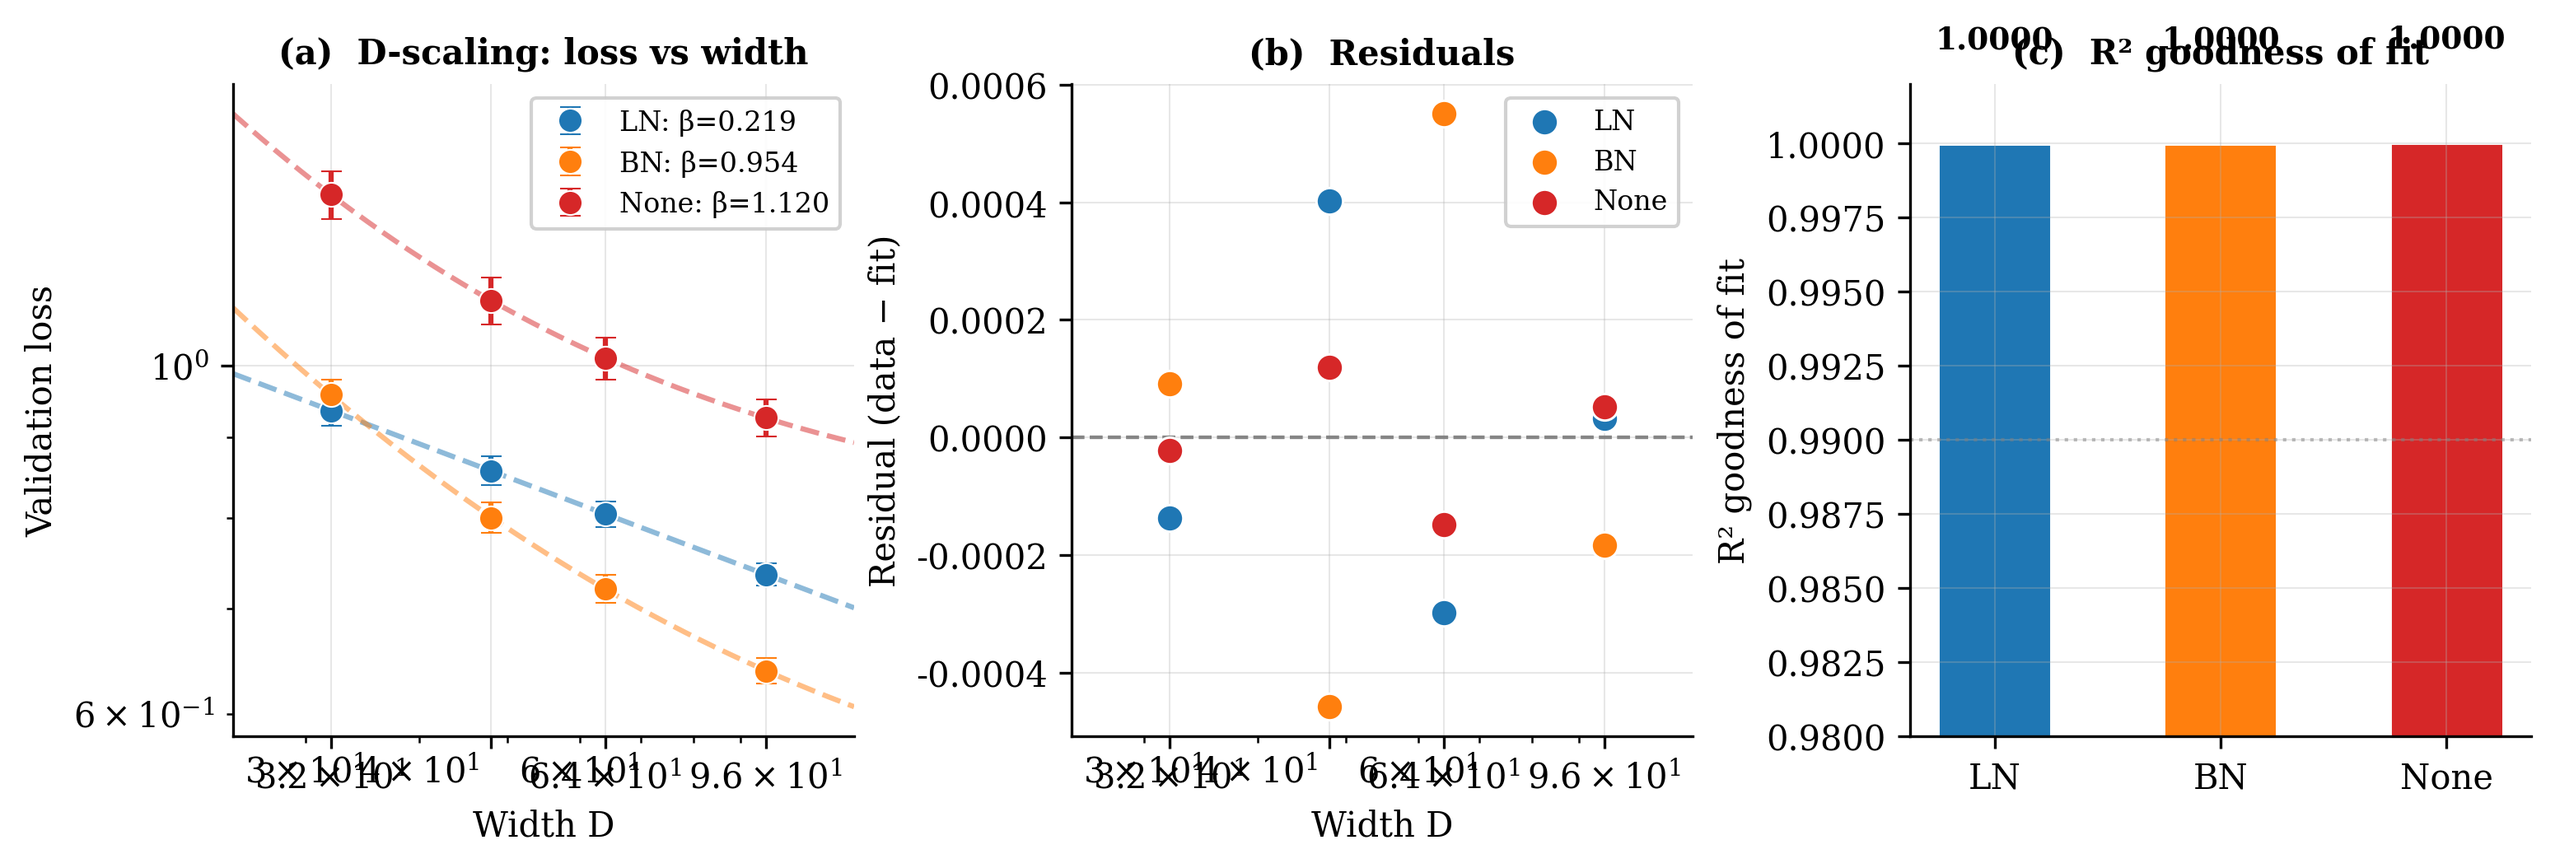
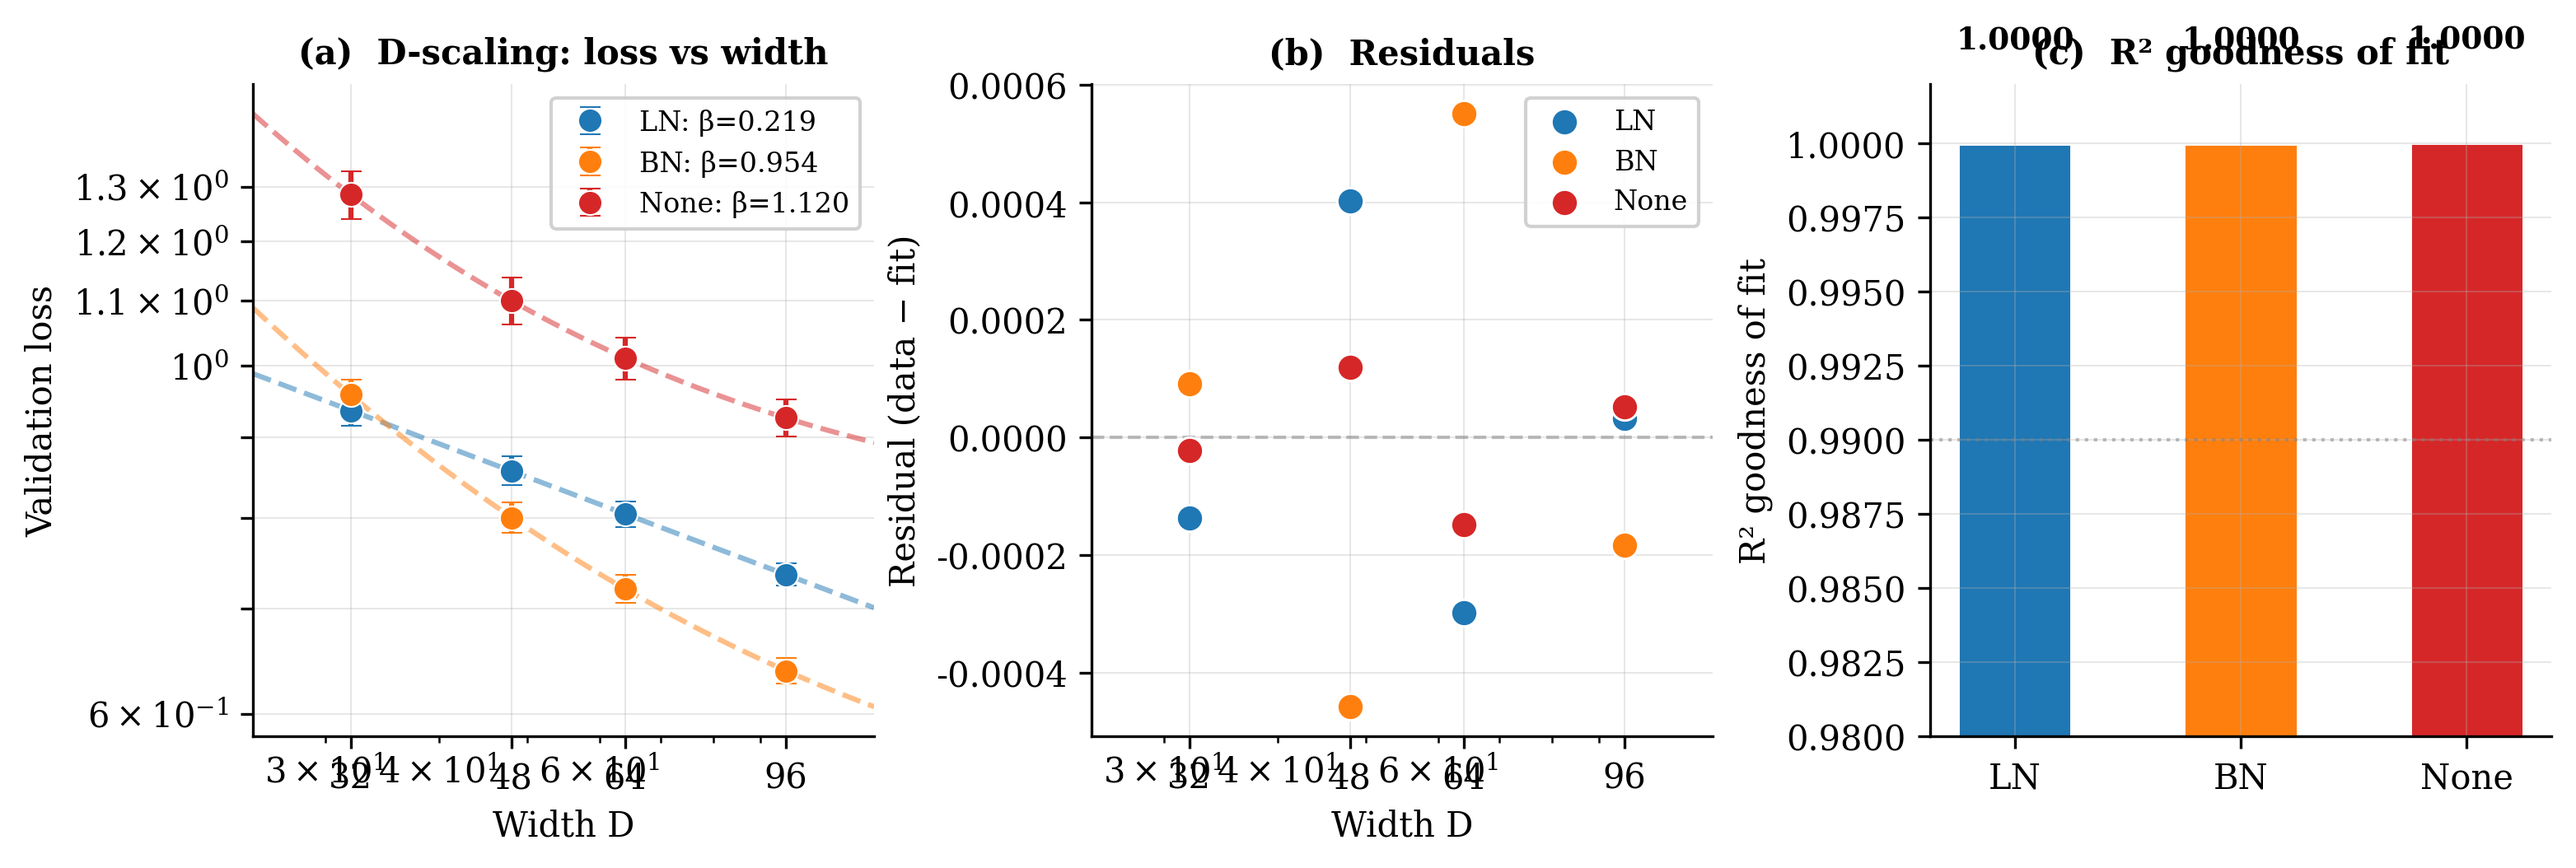
Fix Fig1: width ticks as strings (32,48,64,96) on both panels, y-axis every 0.1 on panel (a)

diff --git a/papers/generate_figures.py b/papers/generate_figures.py
@@ -67,7 +67,7 @@ for name, cfg in configs.items():
 
 D_fit = np.linspace(25, 120, 300)
 
-fig, axes = plt.subplots(1, 3, figsize=(12, 4.0))
+fig, axes = plt.subplots(1, 3, figsize=(12, 4.0), sharex=False)
 plt.subplots_adjust(wspace=0.35, bottom=0.22, top=0.88)
 
 # Panel (a): D-scaling log-log
@@ -87,7 +87,9 @@ ax.set_ylabel("Validation loss", fontsize=10)
 ax.set_title("(a)  D-scaling: loss vs width", fontsize=10, fontweight="bold")
 ax.legend(fontsize=8, loc="upper right")
 ax.set_xticks([32, 48, 64, 96])
+ax.set_xticklabels(["32", "48", "64", "96"])
 ax.set_xlim(25, 120)
+ax.set_yticks([0.6, 0.7, 0.8, 0.9, 1.0, 1.1, 1.2, 1.3])
 
 # Panel (b): Residuals after subtracting E_floor
 ax = axes[1]
@@ -96,7 +98,6 @@ for name, cfg in configs.items():
     residuals = cfg["loss"] - plaw(cfg["D"], *popt)
     ax.scatter(cfg["D"], residuals, color=cfg["color"], s=60, zorder=5,
                edgecolors="white", linewidths=0.7, label=name)
-    ax.axhline(0, color="gray", linestyle="--", linewidth=1.0, alpha=0.5)
 
 ax.set_xscale("log")
 ax.set_xlabel("Width D", fontsize=10)
@@ -104,8 +105,10 @@ ax.set_ylabel("Residual (data − fit)", fontsize=10)
 ax.set_title("(b)  Residuals", fontsize=10, fontweight="bold")
 ax.legend(fontsize=8, loc="upper right")
 ax.set_xticks([32, 48, 64, 96])
+ax.set_xticklabels(["32", "48", "64", "96"])
 ax.set_xlim(25, 120)
 ax.axhline(0, color="gray", linestyle="--", linewidth=1.0, alpha=0.5)
+# Hide y-axis ticks/labels are independent in panel (b), no sharing needed
 
 # Panel (c): R² values
 ax = axes[2]
